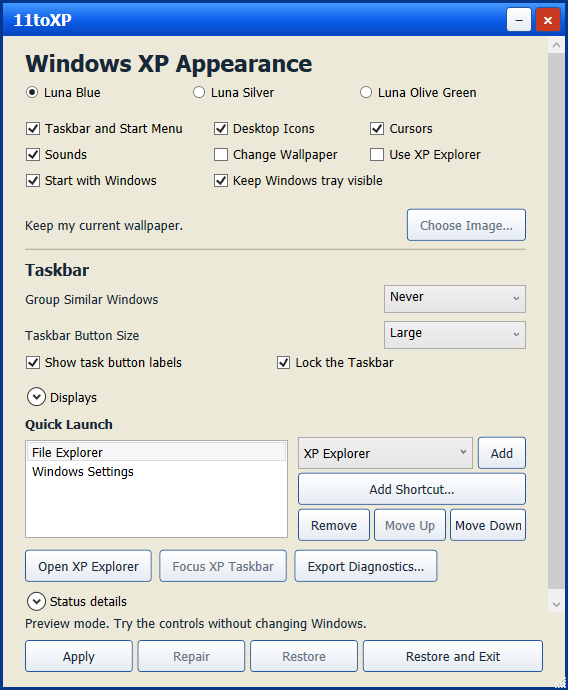
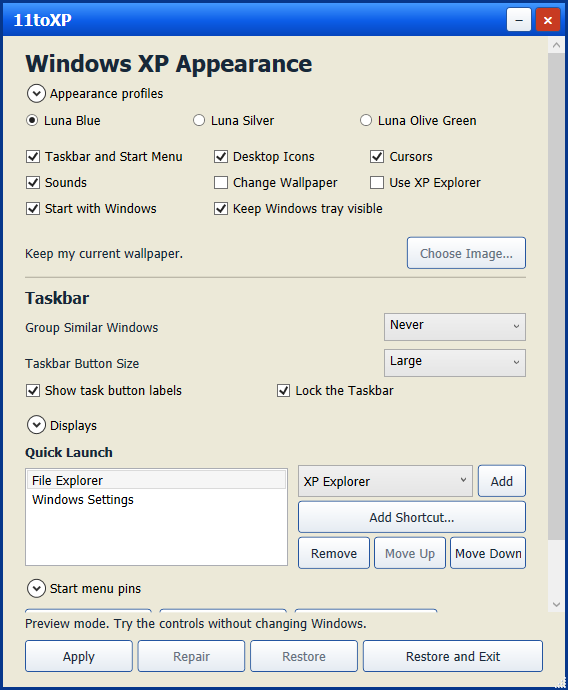
chore: prepare the 11toXP v0.4.0 release

diff --git a/README.md b/README.md
@@ -2,21 +2,19 @@
 
 11toXP gives your Windows 11 desktop the Windows XP Luna look, with an XP-style taskbar, Start menu, and optional file browser. One executable contains the app, its artwork, and the .NET runtime.
 
-**Stable release v0.3.0** for Windows 11 x64.
+**Stable release v0.4.0** for Windows 11 x64.
 
-[Download the portable ZIP](https://github.com/SeanShaffer88/11toXP/releases/download/v0.3.0/11toXP-v0.3.0-win-x64.zip) · [Release notes and SHA-256 checksum](https://github.com/SeanShaffer88/11toXP/releases/tag/v0.3.0)
+[Download the portable ZIP](https://github.com/SeanShaffer88/11toXP/releases/download/v0.4.0/11toXP-v0.4.0-win-x64.zip) · [Release notes and SHA-256 checksum](https://github.com/SeanShaffer88/11toXP/releases/tag/v0.4.0)
 
 ![11toXP control window showing the Luna palettes, appearance options, and recovery controls](docs/images/11toXP-preview.png)
 
-*The v0.3.0 control window running in preview mode.*
+*The v0.4.0 control window running in preview mode.*
 
 ![Live tray icons mirrored beside the XP clock, with the native Windows tray directly below](docs/images/11toXP-tray-countdown.png)
 
 *The XP taskbar during the 15-second layout preview on a single display. The Windows tray below handles clicks.*
 
-## In development
-
-These features are available in builds from the current source. The download above is v0.3.0.
+## What's new in v0.4.0
 
 - Use **Start Menu Pins** to add and reorder local Windows shortcuts above **All Programs**. Choose **Apply** or **Repair** to preview and save the order.
 - With **Keep Windows tray visible** on a single display, live tray icons appear over the Luna background during the countdown and after applying when Windows exposes them. The native tray below handles clicks and menus.
@@ -47,7 +45,7 @@ Choose **Luna Blue**, **Luna Silver**, or **Luna Olive Green**. The taskbar and 
 - **Taskbar Button Size** switches between Large and Small. Clear **Show task button labels** for an icon-only view with accessible names. Clear **Lock the Taskbar** to resize by dragging the top grip or using the Up and Down arrow keys while the grip has focus.
 - **Displays** follows the primary display by default. Clear **Follow the primary display** to choose which connected displays get an XP bar. Selected displays remain saved when disconnected. Windows manages its native taskbars when multiple displays are connected.
 - **Apply** or **Repair** previews changes to the XP taskbar for 15 seconds. Choose **Keep** to save the layout and apply your other selected settings. Choose **Undo**, press Esc, close the dialog, or let the timer expire to return to the previous layout. A resize from the grip saves only the taskbar size.
-- **Keep Windows tray visible** is checked by default, including for older preferences. On a single display, this shows the Windows taskbar and its tray icons beneath the XP taskbar after applying. During the 15-second preview, 11toXP mirrors the live notification icons beside the XP clock when Windows exposes the tray. Use the native tray below the XP bar to click the icons. Undo or timeout restores the tray state from before the preview. For the XP-only layout, uncheck the option and select **Repair**. **Restore** returns the original Windows auto-hide setting.
+- **Keep Windows tray visible** is checked by default, including for older preferences. On a single display, 11toXP mirrors live notification icons beside the XP clock during the 15-second preview and after applying when Windows exposes the tray. Use the native Windows tray below the XP bar for clicks and menus. Undo or timeout restores the tray state from before the preview. For the XP-only layout, uncheck the option and select **Repair**. **Restore** returns the original Windows auto-hide setting.
 - In XP-only mode, select **Show Windows Tray** beside the clock to temporarily reveal the Windows tray below the XP bar. Select **Hide Windows Tray** to return to XP-only mode. The temporary reveal ends when you repair, restore, or restart 11toXP.
 - **Start with Windows** defaults to on, including when an older recovery journal has no startup preference. Uncheck it and choose **Apply** or **Repair** to use the theme for the current Windows session. 11toXP removes its sign-in entry and attempts to restore your original settings at sign-out. If restoration was interrupted, reopening 11toXP retries it. Use **Restore and Exit** for immediate cleanup.
 - **Add Shortcut** adds a local Windows shortcut (`.lnk`) to Quick Launch. Move or remove it with the same controls used for built-in entries. 11toXP keeps the original shortcut file in place and asks Windows to open it when you click its Quick Launch button.
@@ -57,7 +55,9 @@ Choose **Luna Blue**, **Luna Silver**, or **Luna Olive Green**. The taskbar and 
 
 11toXP records original settings and active preferences in `%LOCALAPPDATA%\11toXP\theme-state.json` before applying changes. It also stores control and browser window placement and local copies of generated appearance assets. Sign-in uses the app-owned `11toXP.0348C6BA` value under `HKCU\Software\Microsoft\Windows\CurrentVersion\Run`. Reopen 11toXP and select **Restore** after an interrupted operation. If no instance is running, `11toXP.exe --restore` can perform the same recovery. A running instance returns exit code 3 for this command and can restore through its window.
 
-11toXP retains saved non-wallpaper preferences in `%LOCALAPPDATA%\11toXP\preferences.json` after **Restore**.
+11toXP retains saved non-wallpaper preferences in `%LOCALAPPDATA%\11toXP\preferences.json` after **Restore**. Named appearance profiles are stored separately in `appearance-profiles.json` in the same folder.
+
+After a forced interruption, the native taskbar can stay behind the desktop even after 11toXP restores its saved settings. This also occurred with v0.3.0 on the test desktop. If the native taskbar remains inaccessible after restoring, press **Ctrl+Shift+Esc**, select **Windows Explorer** in Task Manager, and choose **Restart**. This restored the tray on the test desktop.
 
 If you use the XP-only layout, an OS build change may leave both taskbars visible until **Repair** verifies auto-hide on the new build. The app uses Windows taskbar APIs and per-user settings. It makes no network requests. The bundled runtime can extract native libraries to the .NET temporary bundle cache at launch.
 
@@ -72,8 +72,8 @@ $check = Start-Process .\bin\bundle\11toXP.exe -ArgumentList '--self-test' -Pass
 if ($check.ExitCode -ne 0) { exit $check.ExitCode }
 ```
 
-`--self-test` uses an isolated temporary journal and a simulated Windows settings adapter. It checks default wallpaper isolation, opt-in and opt-out, rollback, retry, per-component transitions, legacy journals, Explorer and sign-in recovery, startup collisions and moves, and taskbar compatibility decisions. `--preview` opens the controls with simulated theme actions for UI inspection. Live shell behavior requires an interactive Windows 11 desktop.
+`--self-test` uses an isolated temporary journal and a simulated Windows settings adapter. It checks wallpaper opt-in and opt-out, rollback, retry, per-component transitions, legacy journals, Explorer and sign-in recovery, startup collisions and moves, taskbar compatibility decisions, Start menu pin order, and profile persistence. `--preview` opens the controls with simulated theme actions for UI inspection. Live shell behavior requires an interactive Windows 11 desktop.
 
-Live checks on Windows 11 x64 covered fullscreen transitions, an Explorer restart, background recovery after process termination, and **Restore and Exit**. Wallpaper checks confirmed that leaving **Change Wallpaper** off preserves the current wallpaper, opting in applies the selected image, and opting out or restoring returns the original picture. Live sign-out and sign-in and mixed-DPI display transitions were skipped for v0.3.0.
+Live checks on Windows 11 x64 covered Start menu pin order and launch, profile persistence and staging, tray mirroring before and after **Keep**, layout rollback, and window commands for single and grouped taskbar buttons. The v0.4.0 checks confirmed that wallpaper stays unchanged with **Change Wallpaper** off. Applying a selected picture, opting out, and restoring the original picture were verified on v0.3.0. Live sign-out and sign-in and mixed-DPI display transitions were skipped.
 
 Project source uses the MIT license. The self-contained executable redistributes the .NET Windows Desktop runtime under its own license and notices. [Microsoft runtime licensing](https://github.com/dotnet/core/blob/main/license-information-windows.md)
